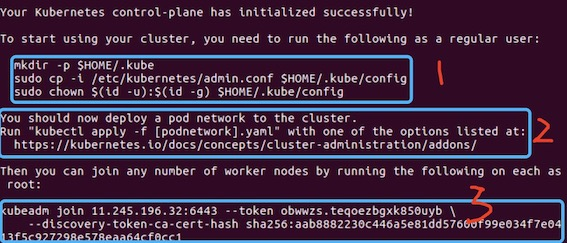
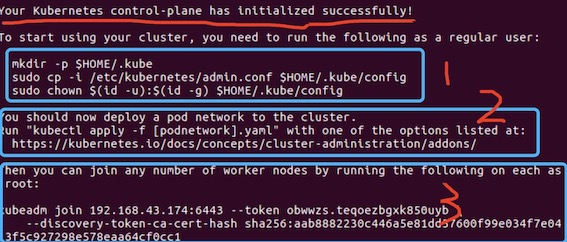
Add posts about k8s app

diff --git a/_posts/Kubernetes/2020-8-22-k8s-app-deploy.md b/_posts/Kubernetes/2020-8-22-k8s-app-deploy.md
@@ -1,0 +1,229 @@
+---
+layout: post
+title: Kubernetes应用部署及可视化展示
+categories: K8s
+keywords: kubernetes dashboard
+permalink: /Ubuntu/k8sUse
+---
+
+在上篇 [基于kubeadm工具部署Kubernetes集群](https://we.wewelove.cn/Ubuntu/k8sDeploy) 博客中，我们已经使用 kubeadm 工具成功搭建了 k8s 集群，
+接下来我们就来看看如何在搭建好的集群上部署应用，并使用 Web UI 可视化界面查看集群中应用的运行状态，帮助开发者快速分析集群的健康状态。
+
+**目录**
+
+* TOC
+{:toc}
+
+### 系统介绍
+
+HOSTNAME | IP ADDR | 虚拟机OS | Specifications 
+:-: | :-: | :-: | :-: 
+kube-master | 192.168.43.174 | ubunru 16.04 | 1核4G 
+kube-node1 | 192.168.43.175 | ubunru 16.04 | 1核4G
+
+注：本文直接使用root用户部署应用，Pod 的内网网段 IP 和子网掩码 是 `192.168.*.*/16`。
+
+### 应用部署
+使用 k8s 集群部署 hello 应用，打印出" Hello World！！"字样。注：下述文件统一放在一个目录中（如：/mnt/share）
+
+##### hello 应用实现
+- 使用 C++ 编程语言编写简单的hello-world.c文件，并使用命令`gcc hello-world.c -o hello-world`编译生成hello-world二进制可执行文件。
+```shell
+#include <stdio.h>
+#include <unistd.h>
+
+int main(int argc, char *argv[])
+{
+    int i = 0;
+    while( i < 3600 )
+    {
+        printf("Hello World!!\n");
+        i++;
+    }
+    sleep(i);
+    return 0;
+}
+```
+- 编写Dockerfile，制作容器镜像（将生成的hello-world二进制可执行文件拷贝至容器中执行）
+```shell
+FROM ubuntu:16.04
+
+MAINTAINER yourName yourEmail
+
+RUN mkdir data
+COPY hello-world data
+ENTRYPOINT ["data/hello-world"]
+```
+
+- 编译镜像，并将其上传到个人的 [DockerHub](https://hub.docker.com/) ，此处默认已申请DockerHub账号
+```shell
+# 登陆DockerHub，输入在DockerHub申请注册的账号密码
+doker login
+
+# 编译Dockerfile，生成镜像
+# 其中，hello_world是镜像名，2.0是版本tag，
+# .是指定镜像构建过程中的上下文环境的目录，docker build 可将这个指定路径下的文件打包上传到Docker引擎
+docker build -t yourDockerHubAccount/hello_world:2.0 .
+
+# 将生成的镜像上传到个人的DockerHub
+docker push yourDockerHubAccount/hello_world:2.0
+```
+
+- 编写k8s应用部署文件hello.yaml
+```shell
+apiVersion: extensions/v1beta1
+kind: Deployment
+metadata:
+  name: hello
+spec:
+  replicas: 1
+  template:
+    metadata:
+      labels:
+        name: hello
+    spec:
+      containers:
+      - name: hello-world
+        image: yourDockerHubAccount/hello_world:2.0
+        imagePullPolicy: IfNotPresent
+```
+
+- 启动应用（仅master节点）
+```shell
+kubectl apply -f hello.yaml
+```
+
+- 查看应用状态，-o wide表示输出详情
+```shell
+kubectl get pods -o wide
+```
+![查看应用状态](/images/posts/kubernetes/app_status.jpg "查看应用状态")
+
+观察上图可见，该应用pod运行在k8s-node1节点上，分配IP：192.168.9.71，属于192.168.*.*网段。
+
+运行`ping -c 1 192.168.9.71`命令可ping通，说明calico网络插件运行正常。
+
+![calico状态](/images/posts/kubernetes/calico_status.jpg "calico状态")
+
+测试pod的中的容器是否在运行
+```shell
+kubectl exec -it hello-8464b48485-4znrz -- ps -aux | grep hello
+```
+![程序运行状态](/images/posts/kubernetes/prog_status.jpg "程序运行状态")
+
+观察上图可见,pod的中的容器在执行hello-world程序，因文件名过长被裁切省略显示。
+
+执行输出的结果和运行状态可查看对应pod的日志
+```shell
+kubectl logs hello-8464b48485-4znrz
+```
+![pod日志](/images/posts/kubernetes/pod_logs.jpg "pod日志")
+
+### Dashboard 可视化展示
+Dashboard 是基于网页的 Kubernetes 用户界面，囊括了 kubectl 命令行工具几乎所有的功能。
+你可以使用 Dashboard 在 WEB 界面浏览运行在集群中的应用概况和节点负载等信息，也可以直接
+在 WEB 界面将容器应用部署到 Kubernetes 集群中，管理集群资源（如：创建和修改Deployment，
+Job等资源，还可以对 Deployment 实现弹性扩缩、滚动升级、重启 Pod等操作）。
+
+##### Dashboard 安装
+在网上查找很多教程都使用 [faasx镜像站的kubernetes-dashboard.yaml文件](http://mirror.faasx.com/kubernetes/dashboard/master/src/deploy/recommended/kubernetes-dashboard.yaml)，
+但在使用时，会发现yaml文件中的 `reg.qiniu.com/k8s/kubernetes-dashboard-amd64:v1.8.3`
+镜像下载不下来。
+
+解决方法：将kubernetes-dashboard.yaml的内容复制到本地，然后将其中的image的dashboard镜像
+修改为对应版本的阿里云镜像 `registry.cn-hangzhou.aliyuncs.com/kubeapps/k8s-gcr-kubernetes-dashboard-amd64:v1.8.3`
+![dashboard镜像](/images/posts/kubernetes/dashboard_image.jpg "dashboard镜像")
+
+然后在master节点执行：
+```shell
+# 此处的kubernetes-dashboard.yaml是经本地修改过的
+kubectl apply -f kubernetes-dashboard.yaml
+```
+若发现，节点镜像拉取很慢导致启动不成功，因为此处只有node1工作节点，默认镜像会在node1节点启动，如果着急
+看效果，可在node1节点手动执行 `docker pull reg.qiniu.com/k8s/kubernetes-dashboard-amd64:v1.8.3`
+命令拉取镜像。
+
+##### 查看 Dashboard 是否成功启动
+```shell
+kubectl get pod --namespace=kube-system
+kubectl get deployment kubernetes-dashboard --namespace=kube-system 
+kubectl get service kubernetes-dashboard --namespace=kube-system 
+```
+![dashboard启动确认](/images/posts/kubernetes/dashboard_status.jpg "dashboard启动确认")
+
+##### 设置外部访问权限
+```shell
+# 允许外部全部用户访问（会占用阻塞终端）
+kubectl proxy --address='0.0.0.0'  --accept-hosts='^*$'
+
+# 编写配置文件 dashboard-admin.yaml，为 Dashboard 配置登陆权限
+vim dashboard-admin.yaml
+# 添加如下内容，为 Dashboard 用户赋予 admin 权限
+apiVersion: rbac.authorization.k8s.io/v1beta1
+kind: ClusterRoleBinding
+metadata:
+  name: kubernetes-dashboard
+  labels: 
+     k8s-app: kubernetes-dashboard
+roleRef:
+  apiGroup: rbac.authorization.k8s.io
+  kind: ClusterRole
+  name: cluster-admin
+subjects:
+- kind: ServiceAccount
+  name: kubernetes-dashboard
+  namespace: kube-system
+
+# 执行kubectl apply应用权限使之生效
+kubectl apply -f dashboard-admin.yml
+```
+
+##### 浏览器访问
+在浏览器 WEB 页面访问Dashboard查看集群状态。
+```shell
+# 通过在浏览器输入下述地址，其中yourMasterNodeIP为为kube-master节点的IP：192.168.43.174
+http://yourMasterNodeIP:8001/api/v1/namespaces/kube-system/services/https:kubernetes-dashboard:/proxy/.
+```
+然后直接点击`登录页面`的`跳过`
+
+![dashboard登陆页面](/images/posts/kubernetes/dashboard_ui_login.jpg "dashboard登陆页面")
+
+随后进入Dashboard，就可以查看集群的信息了，页面如下：
+
+![dashboard主页面](/images/posts/kubernetes/dashboard_ui_home.png "dashboard主页面")
+
+下图可以看见hello应用启动的一个状态变化，由于镜像的下载速度慢导致的错误，后来在node1节点手动拉好镜像，解决了该问题。
+
+![dashboard应用状态](/images/posts/kubernetes/dashboard_board_app.png "dashboard应用状态")
+
+### 小知识积累
+##### Kubernetes命名空间
+在默认情况下，新搭建的集群有三个命名空间：
+1. default: 向集群中添加对象而不提供命名空间，默认都会放入此空间
+2. kube-system: 用于存放Kubernetes组件，通常情况，该空间不添加运行普通的工作负载，由系统直接管理
+3. kube-public: 对所有用户可读，由Kubernetes自己管理
+      
+##### kubectl命令补全（仅master节点）
+```shell
+apt-get install bash-completion
+
+# 编辑~/.bashrc文件
+vim ~/.bashrc
+# 添加如下内容
+source <(kubectl completion bash)
+
+# 使配置生效
+source  ~/.bashrc
+```
+
+
+
+
+
+
+
+
+
+
+
+

diff --git a/_posts/Kubernetes/2020-8-15-k8s-cluster-deploy.md b/_posts/Kubernetes/2020-8-15-k8s-cluster-deploy.md
@@ -169,7 +169,7 @@ cat /etc/kube-server-key | tail -2
 
 - 执行命令，加入节点（仅node节点）
 ```shell
-kubeadm join 11.245.196.32:6443 --token obwwzs.teqoezbgxk850uyb \
+kubeadm join 192.168.43.174:6443 --token obwwzs.teqoezbgxk850uyb \
     --discovery-token-ca-cert-hash sha256:aab8882230c446a5e81dd57600f99e034f7e0413f5c927298e578eaa64cf0cc1
 ```
 
@@ -189,11 +189,11 @@ apt-get install -y kubelet=1.15.2-00 kubeadm=1.15.2-00 kubectl=1.15.2-00
 # 升级后集群版本不自动升级
 apt-mark hold kubelet=1.15.2-00 kubeadm=1.15.2-00 kubectl=1.15.2-00
 
-# 在所有节点（包括 master、worker 节点）执行命令
+# 在所有节点（包括 master、node 节点）执行命令
 systemctl daemon-reload 
 systemctl restart kubelet
 ```
-同样，在master节点查看集群状态
+同样，在master节点查看集群状态已经，master节点已经从1.15.0升级到1.15.2版本
 
 ![查看集群升级状态](/images/posts/kubernetes/k8s_upgrade.png "查看集群升级状态")
 
